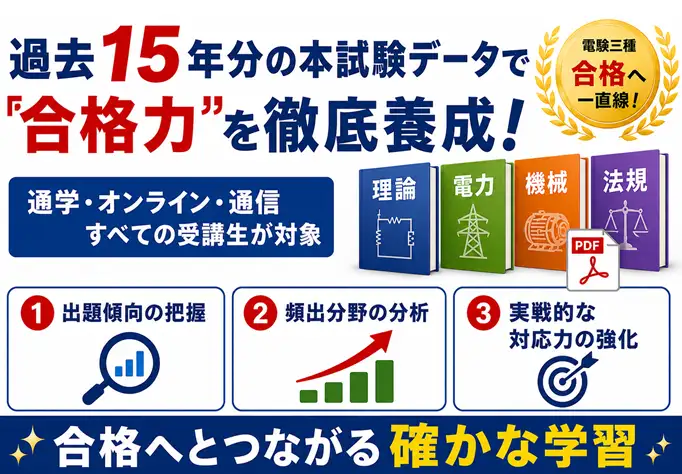
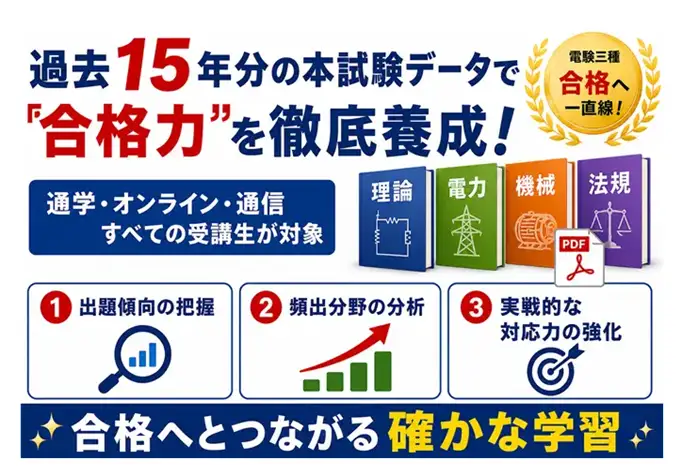
ADD:6/22 修正③〜

diff --git a/src/pages/Denken3.vue b/src/pages/Denken3.vue
@@ -143,7 +143,7 @@
               "
               text_3="受講生のライフスタイルに合った講座を選ぶことができます。【通学】【オンライン】【通信】講座。通学にオンライン講座を追加（70%割引）などバリエーションは豊富です。どの講座も合格に特化した教材を使用します。"
               :imagePath_3="
-                require('../assets/img/license_page/denken3/denken3_quality_4.jpg')
+                require('../assets/img/license_page/denken3/denken3_quality_5.webp')
               "
             />
             <WorkshopDenkenTugaku />
@@ -464,7 +464,7 @@
               "
               text_3="講義内容や資料をもとに、要点整理・専門用語の説明・補足資料などをAIに質問できます。<br>復習や苦手分野の確認にご活用ください。<br><br>※AIの回答は参考情報です。"
               :imagePath_3="
-                require('../assets/img/license_page/denken3/denken3_quality_4.webp')
+                require('../assets/img/license_page/denken3/denken3_quality_5.webp')
               "
             />
 
@@ -780,7 +780,7 @@
               "
               text_3="受講生のライフスタイルに合った講座を選ぶことができます。【通学】【オンライン】【通信】講座。通学にオンライン講座を追加（70%割引）などバリエーションは豊富です。どの講座も合格に特化した教材を使用します。"
               :imagePath_3="
-                require('../assets/img/license_page/denken3/denken3_quality_4.jpg')
+                require('../assets/img/license_page/denken3/denken3_quality_5.webp')
               "
             />
 